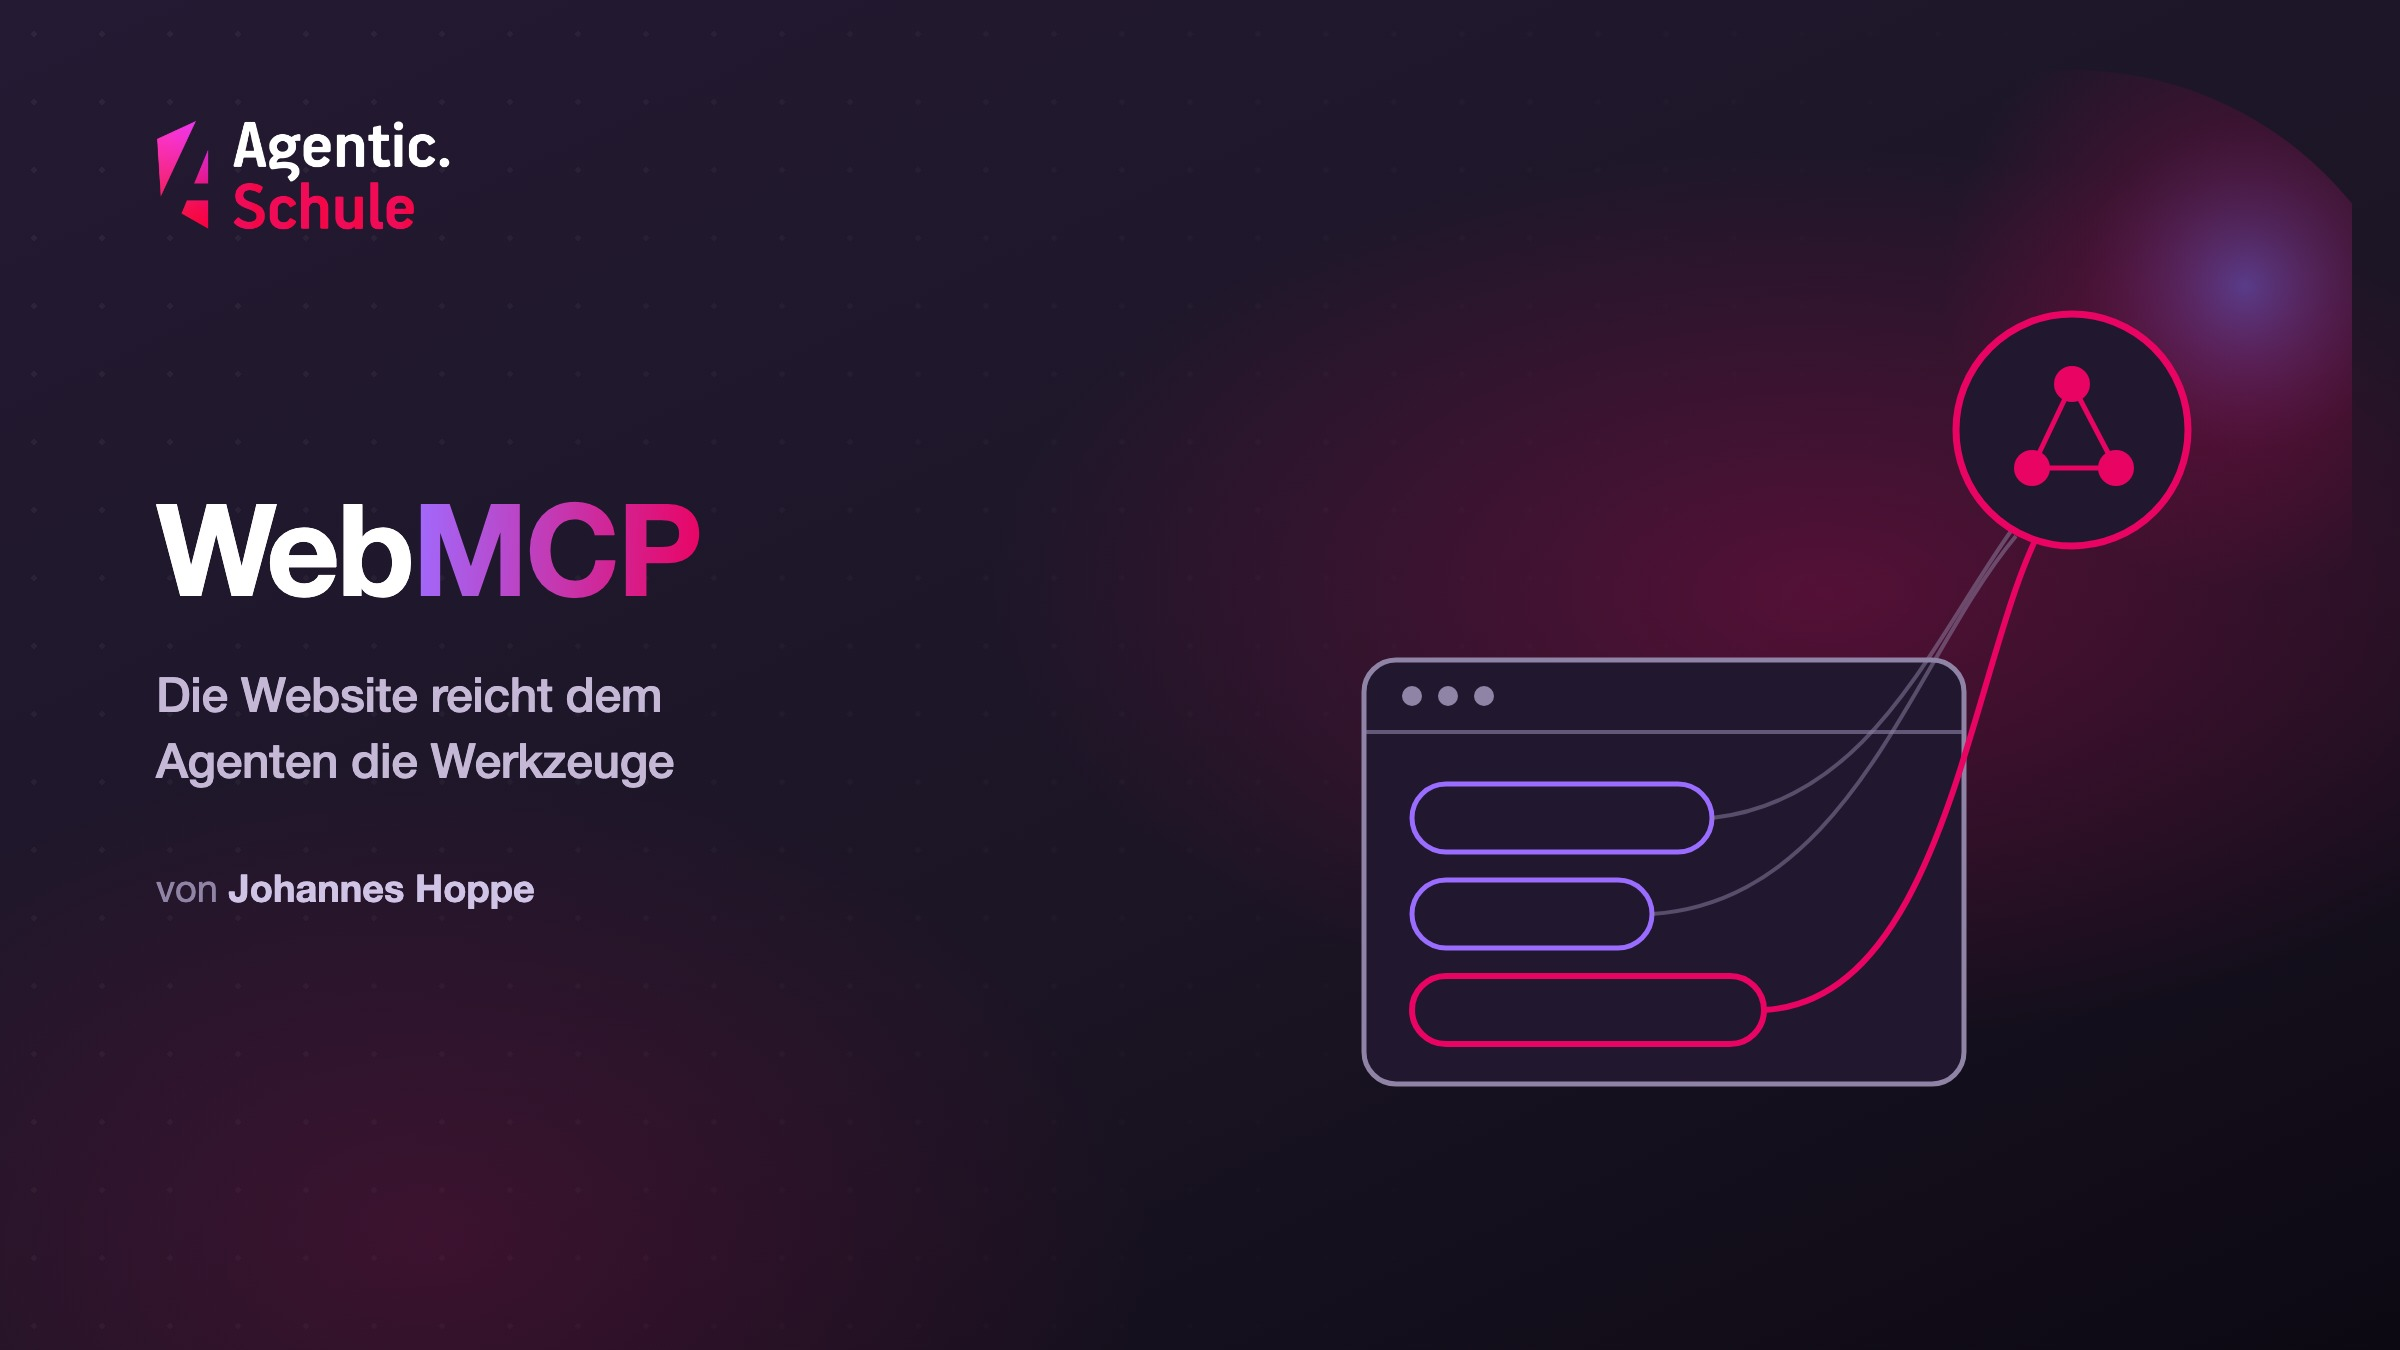
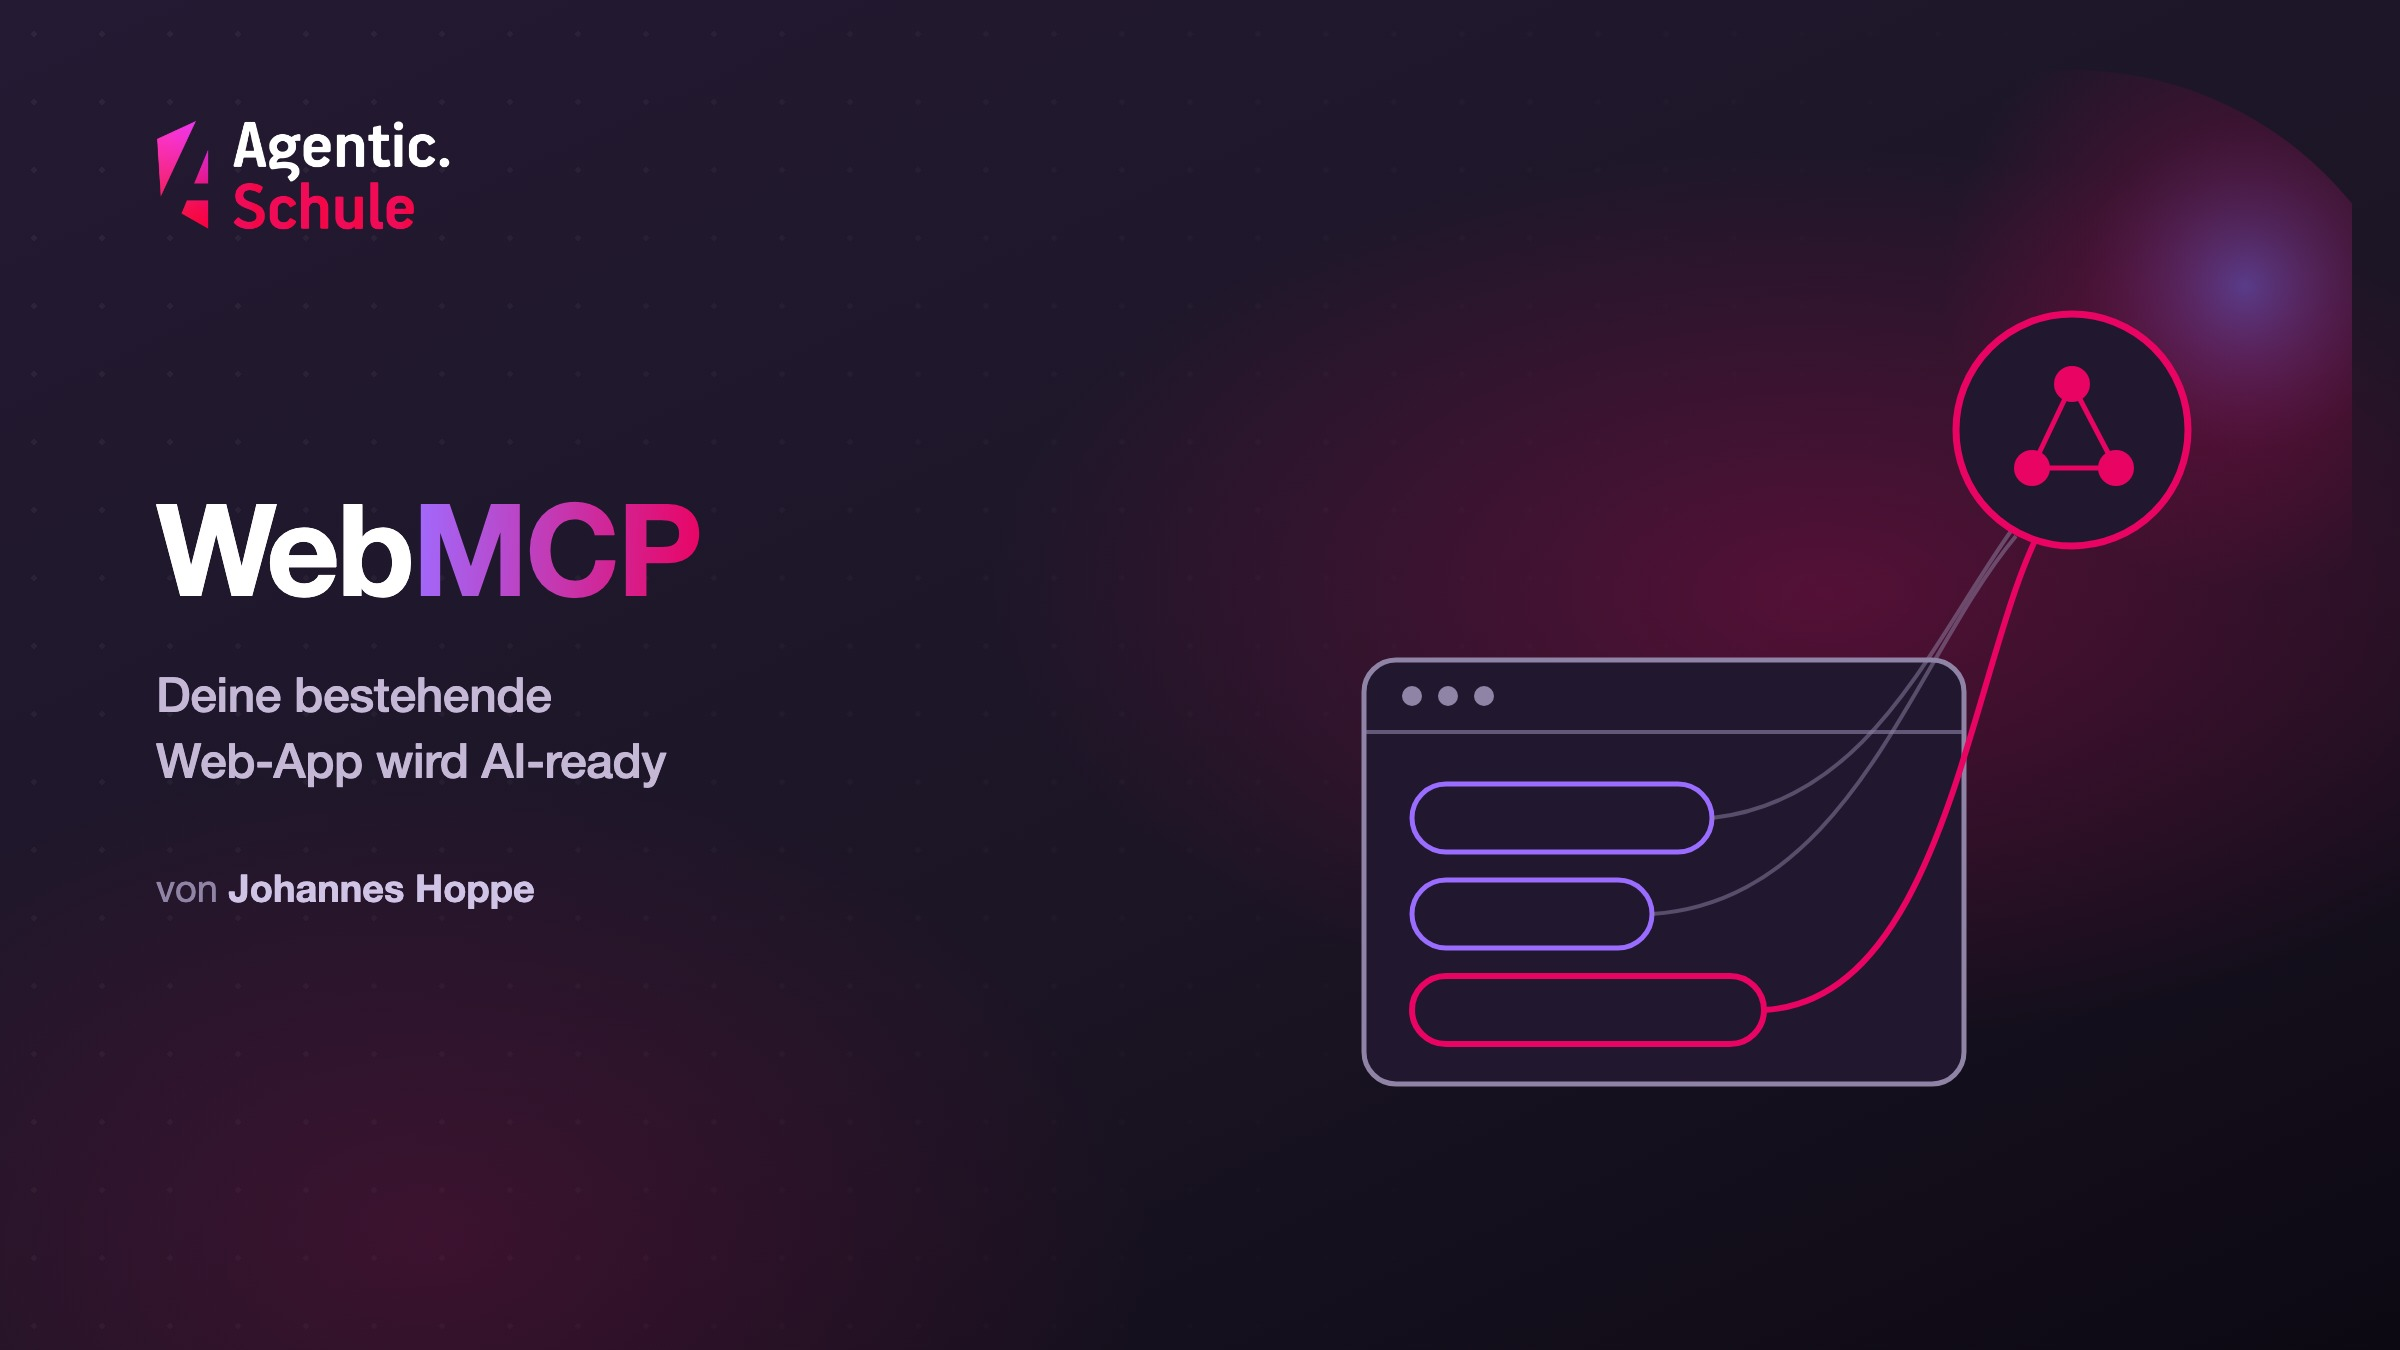
Teil 1: Titel und Intro aus der Talk-Beschreibung übernommen (DE+EN)
Titel -> 'WebMCP: Deine bestehende Web-App wird AI-ready' / 'Your Existing Web App
Becomes AI-Ready'. Intro auf den Talk-Hook umgestellt ('Mach da mal was mit KI
rein.' / 'Just add some AI to it.'). Banner-Untertitel angeglichen und neu gerendert.

Changed region(s): [[0.0625, 0.4978, 0.2812, 0.5911]]

diff --git a/blog/2026-10-webmcp-DE/header.src.html b/blog/2026-10-webmcp-DE/header.src.html
@@ -34,7 +34,7 @@
   <div class="wrap">
     <div class="left">
       <h1>Web<span class="accent">MCP</span></h1>
-      <div class="sub">Die Website reicht dem<br>Agenten die Werkzeuge</div>
+      <div class="sub">Deine bestehende<br>Web-App wird AI-ready</div>
       <div class="by">von <b>Johannes Hoppe</b></div>
     </div>
   </div>

diff --git a/blog/2026-10-webmcp-EN/header.src.html b/blog/2026-10-webmcp-EN/header.src.html
@@ -34,7 +34,7 @@
   <div class="wrap">
     <div class="left">
       <h1>Web<span class="accent">MCP</span></h1>
-      <div class="sub">The website hands the<br>agent its tools</div>
+      <div class="sub">Your existing web app<br>becomes AI-ready</div>
       <div class="by">by <b>Johannes Hoppe</b></div>
     </div>
   </div>

diff --git a/blog/2026-10-webmcp-DE/README.md b/blog/2026-10-webmcp-DE/README.md
@@ -1,5 +1,5 @@
 ---
-title: 'WebMCP: Deine Website reicht dem Agenten die Werkzeuge'
+title: 'WebMCP: Deine bestehende Web-App wird AI-ready'
 author: Johannes Hoppe
 mail: johannes.hoppe@haushoppe-its.de
 bio: '<a href="https://agentic.schule"><img src="/img/logo-agentic-schule.png" alt="agentic.schule Logo" style="float: right; margin-left: 30px; margin-top: -10px; margin-right: 30px; max-width: 220px;"></a>Johannes Hoppe ist Trainer und Berater für moderne Web-Entwicklung. In den Workshops von <a href="https://angular.schule" style="text-decoration: underline;"><b>angular.schule</b></a> und <a href="https://agentic.schule" style="text-decoration: underline;"><b>agentic.schule</b></a> geht es praxisnah um Angular – und zunehmend um agentische Entwicklung mit KI-Agenten wie Claude Code.'
@@ -18,9 +18,9 @@ language: de
 header: header.jpg
 ---
 
-Es gibt eine neue Technologie, mit der du bestehende Web-Anwendungen mit wenig Aufwand _AI-ready_ machst, also fit dafür, dass ein KI-Agent sie bedient. Sie heißt WebMCP, und wir probieren sie in diesem Artikel gemeinsam aus. Keine Sorge: Du brauchst dafür kein neues Backend und kein eigenes KI-Modell.
+„Mach da mal was mit KI rein." Der klassische Weg ist ein eigener Chatbot mit eigenem Backend und eigenem Modell. Und du zahlst jeden _Token_ deiner Besucher (die Abrechnungseinheit, in der KI-Modelle rechnen), auch wenn sie den Chatbot für Smalltalk nutzen. Doch es geht auch vollkommen andersherum!
 
-**Der Trick ist eine Umkehr. Ein klassischer KI-Chatbot gehört dem Betreiber: eigenes Backend, eigenes Modell, und der Betreiber zahlt für jeden _Token_ (die Abrechnungseinheit, in der KI-Modelle rechnen). WebMCP dreht das um. Der Besucher bringt seinen eigenen Assistenten mit, zum Beispiel ChatGPT, und du registrierst nur deine vorhandene Client-Logik als Tools. So wird praktisch jede App AI-ready. Das ist die _Low Hanging Fruit_ für AI in bestehenden Anwendungen, und genau das begeistert mich daran.**
+**Mit WebMCP bringt der Besucher seinen eigenen AI-Assistenten mit. Deine Web-App bietet ihm ihre Funktionen als _Tools_ an, und der Agent ruft sie direkt auf, statt sich durch das HTML zu tasten. Du brauchst dafür kein Backend und kein eigenes Modell. Und welche KI die Eingaben verarbeitet, entscheidet der Anwender selbst. So machst du eine bestehende Web-App mit wenig Aufwand _AI-ready_, also fit dafür, dass ein KI-Agent sie bedient.**
 
 In diesem ersten Teil klären wir, was WebMCP ist, wie es sich zum MCP aus Claude Code verhält, was heute schon real funktioniert und wo die Haken liegen. Das hier ist Teil 1 von zwei, gedacht für jeden Web-Entwickler. [Teil 2](https://agentic.schule/blog/2026-10-webmcp-angular) zeigt dann die konkrete Umsetzung in Angular. Jeder Teil ist für sich lesbar.
 

diff --git a/blog/2026-10-webmcp-EN/README.md b/blog/2026-10-webmcp-EN/README.md
@@ -1,5 +1,5 @@
 ---
-title: 'WebMCP: The Website Hands the Agent Its Tools'
+title: 'WebMCP: Your Existing Web App Becomes AI-Ready'
 author: Johannes Hoppe
 mail: johannes.hoppe@haushoppe-its.de
 bio: '<a href="https://agentic.schule"><img src="/img/logo-agentic-schule.png" alt="agentic.schule logo" style="float: right; margin-left: 30px; margin-top: -10px; margin-right: 30px; max-width: 220px;"></a>Johannes Hoppe is a trainer and consultant for modern web development. The workshops at <a href="https://angular.schule" style="text-decoration: underline;"><b>angular.schule</b></a> and <a href="https://agentic.schule" style="text-decoration: underline;"><b>agentic.schule</b></a> focus on Angular in practice – and increasingly on agentic development with AI agents like Claude Code.'
@@ -18,9 +18,9 @@ language: en
 header: header.jpg
 ---
 
-There is a new technology that lets you make existing web applications _AI-ready_ with little effort, meaning ready to be operated by an AI agent. It's called WebMCP, and in this article we try it out together. Don't worry: you need no new backend and no model of your own for it.
+"Just add some AI to it." The classic answer is your own chatbot, with your own backend and your own model. And you pay for every _token_ your visitors burn (the unit AI models bill in), even when they use your chatbot for small talk. But it also works the other way around!
 
-**The trick is a reversal. A classic AI chatbot belongs to the operator: their own backend, their own model, and the operator pays for every _token_ (the unit AI models bill in). WebMCP turns that around. The visitor brings their own assistant, for example ChatGPT, and you only register your existing client logic as tools. That makes practically any app AI-ready. This is the low-hanging fruit for AI in existing applications, and that is exactly what excites me about it.**
+**With WebMCP, the visitor brings their own AI assistant. Your web app offers it your functions as _tools_, and the agent calls them directly instead of feeling its way through the HTML. You need no backend and no model of your own for it. And the user decides which AI processes their input. That is how you make an existing web app _AI-ready_ with little effort, meaning ready to be operated by an AI agent.**
 
 In this first part we clarify what WebMCP is, how it relates to the MCP from Claude Code, what already works today, and where the catches are. This is part 1 of two, meant for any web developer. [Part 2](https://agentic.schule/en/blog/2026-10-webmcp-angular) then shows the concrete implementation in Angular. Each part stands on its own.
 
